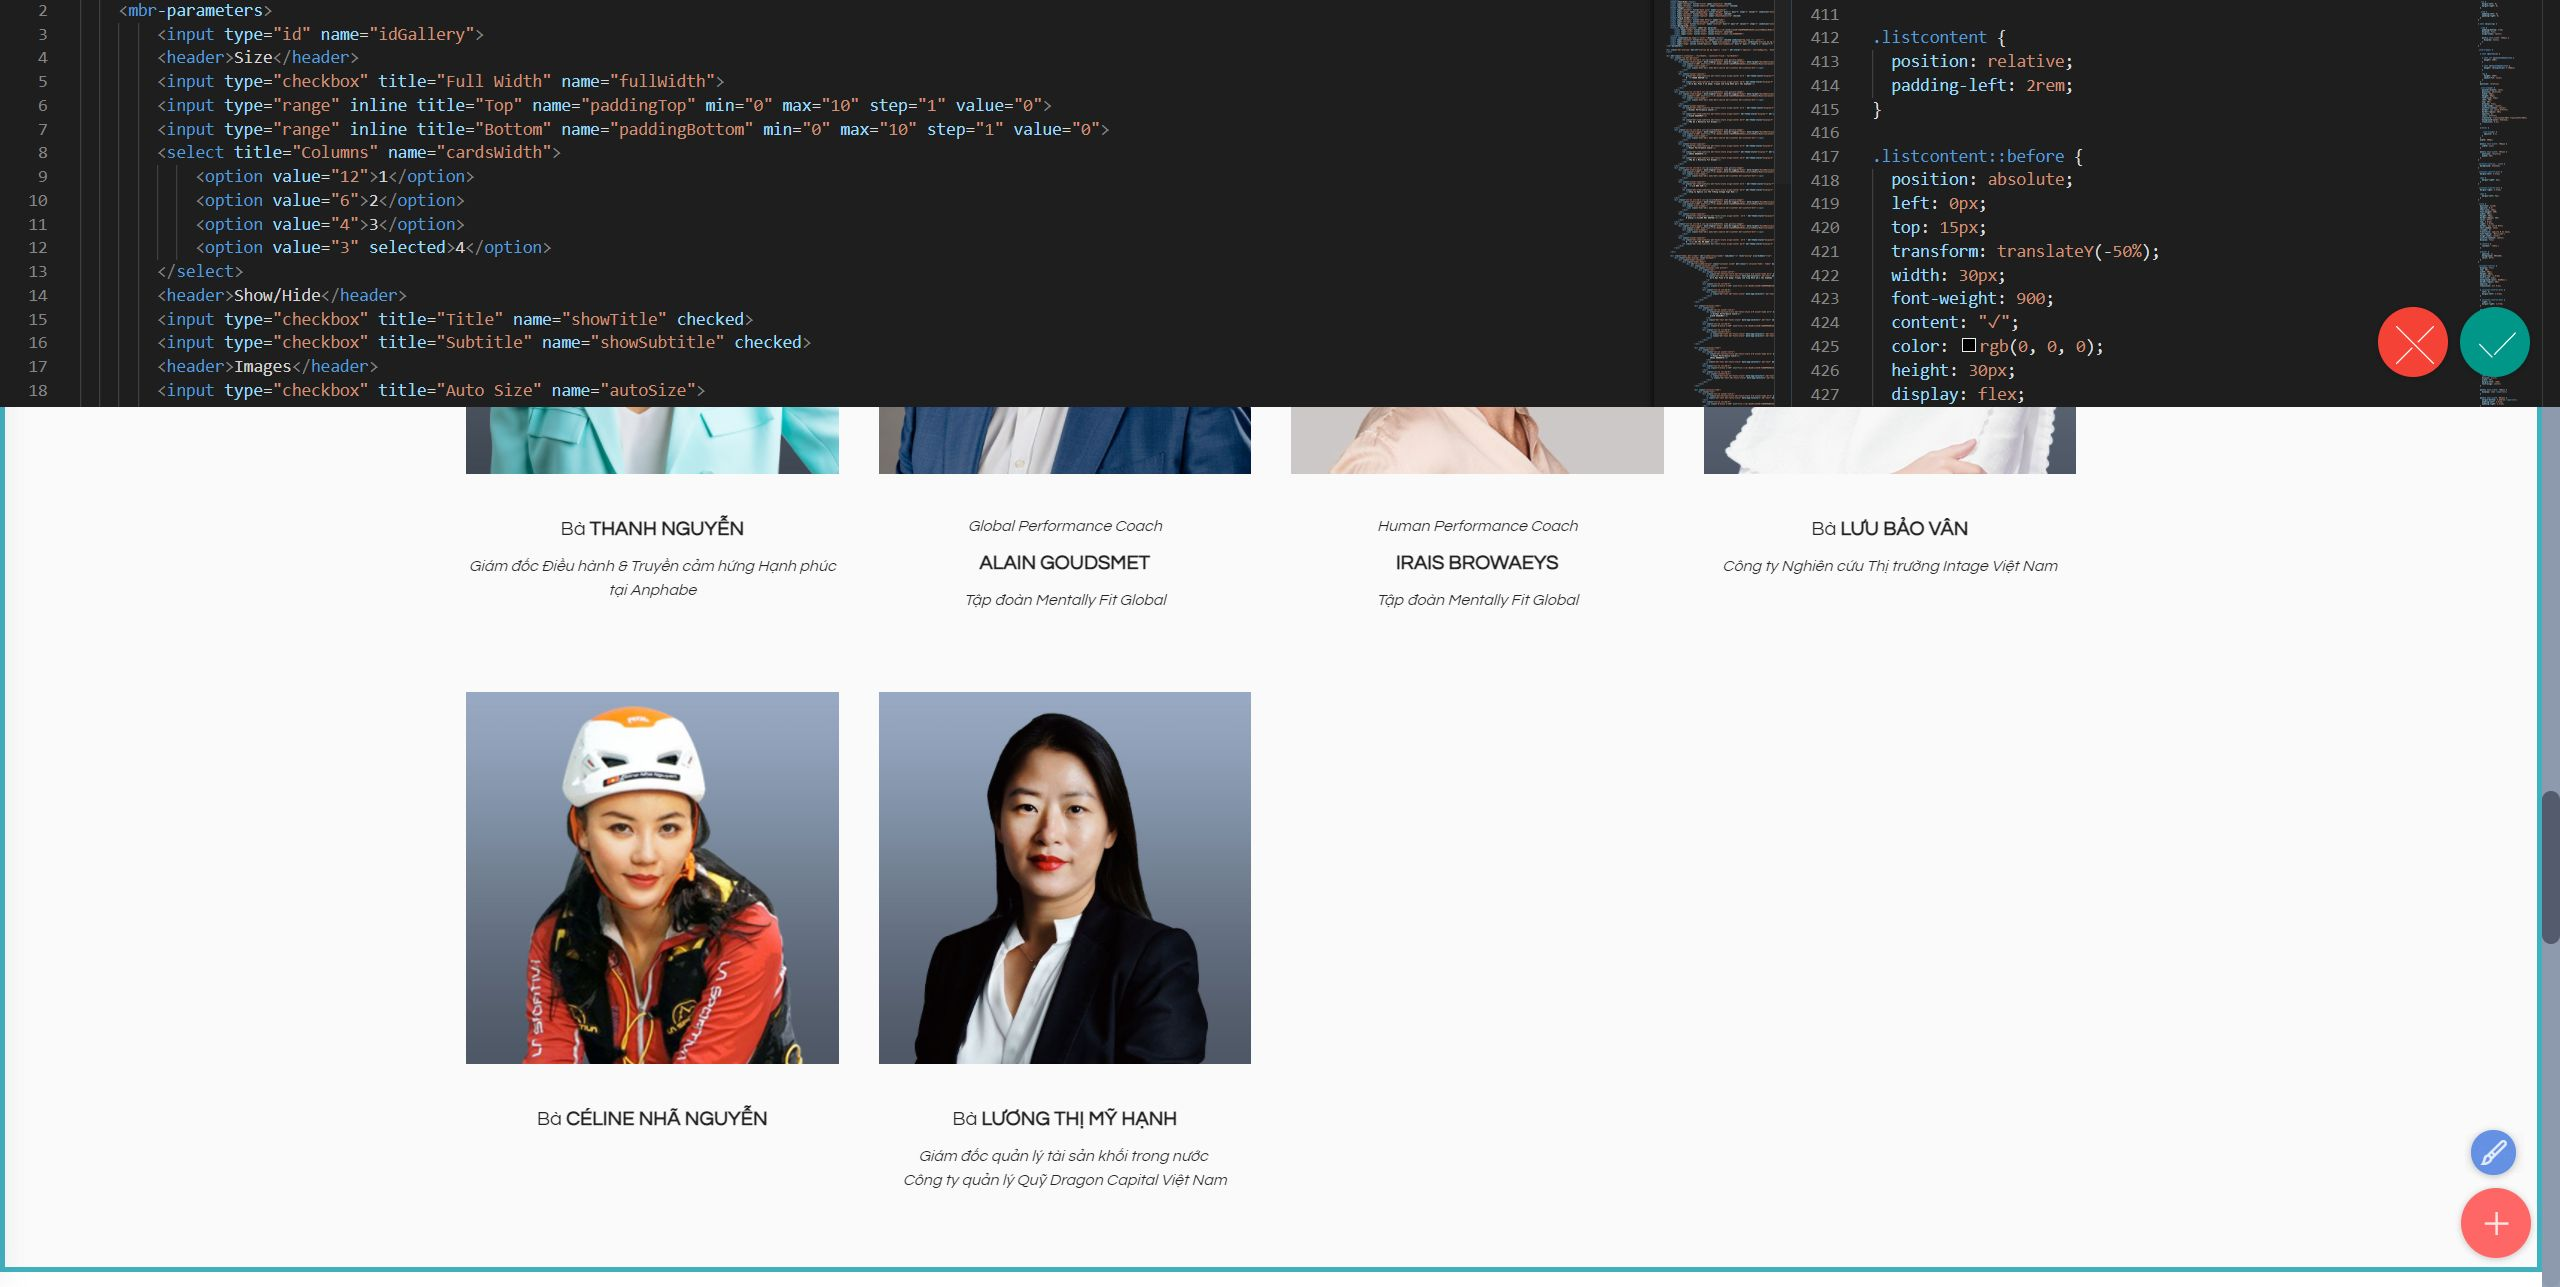
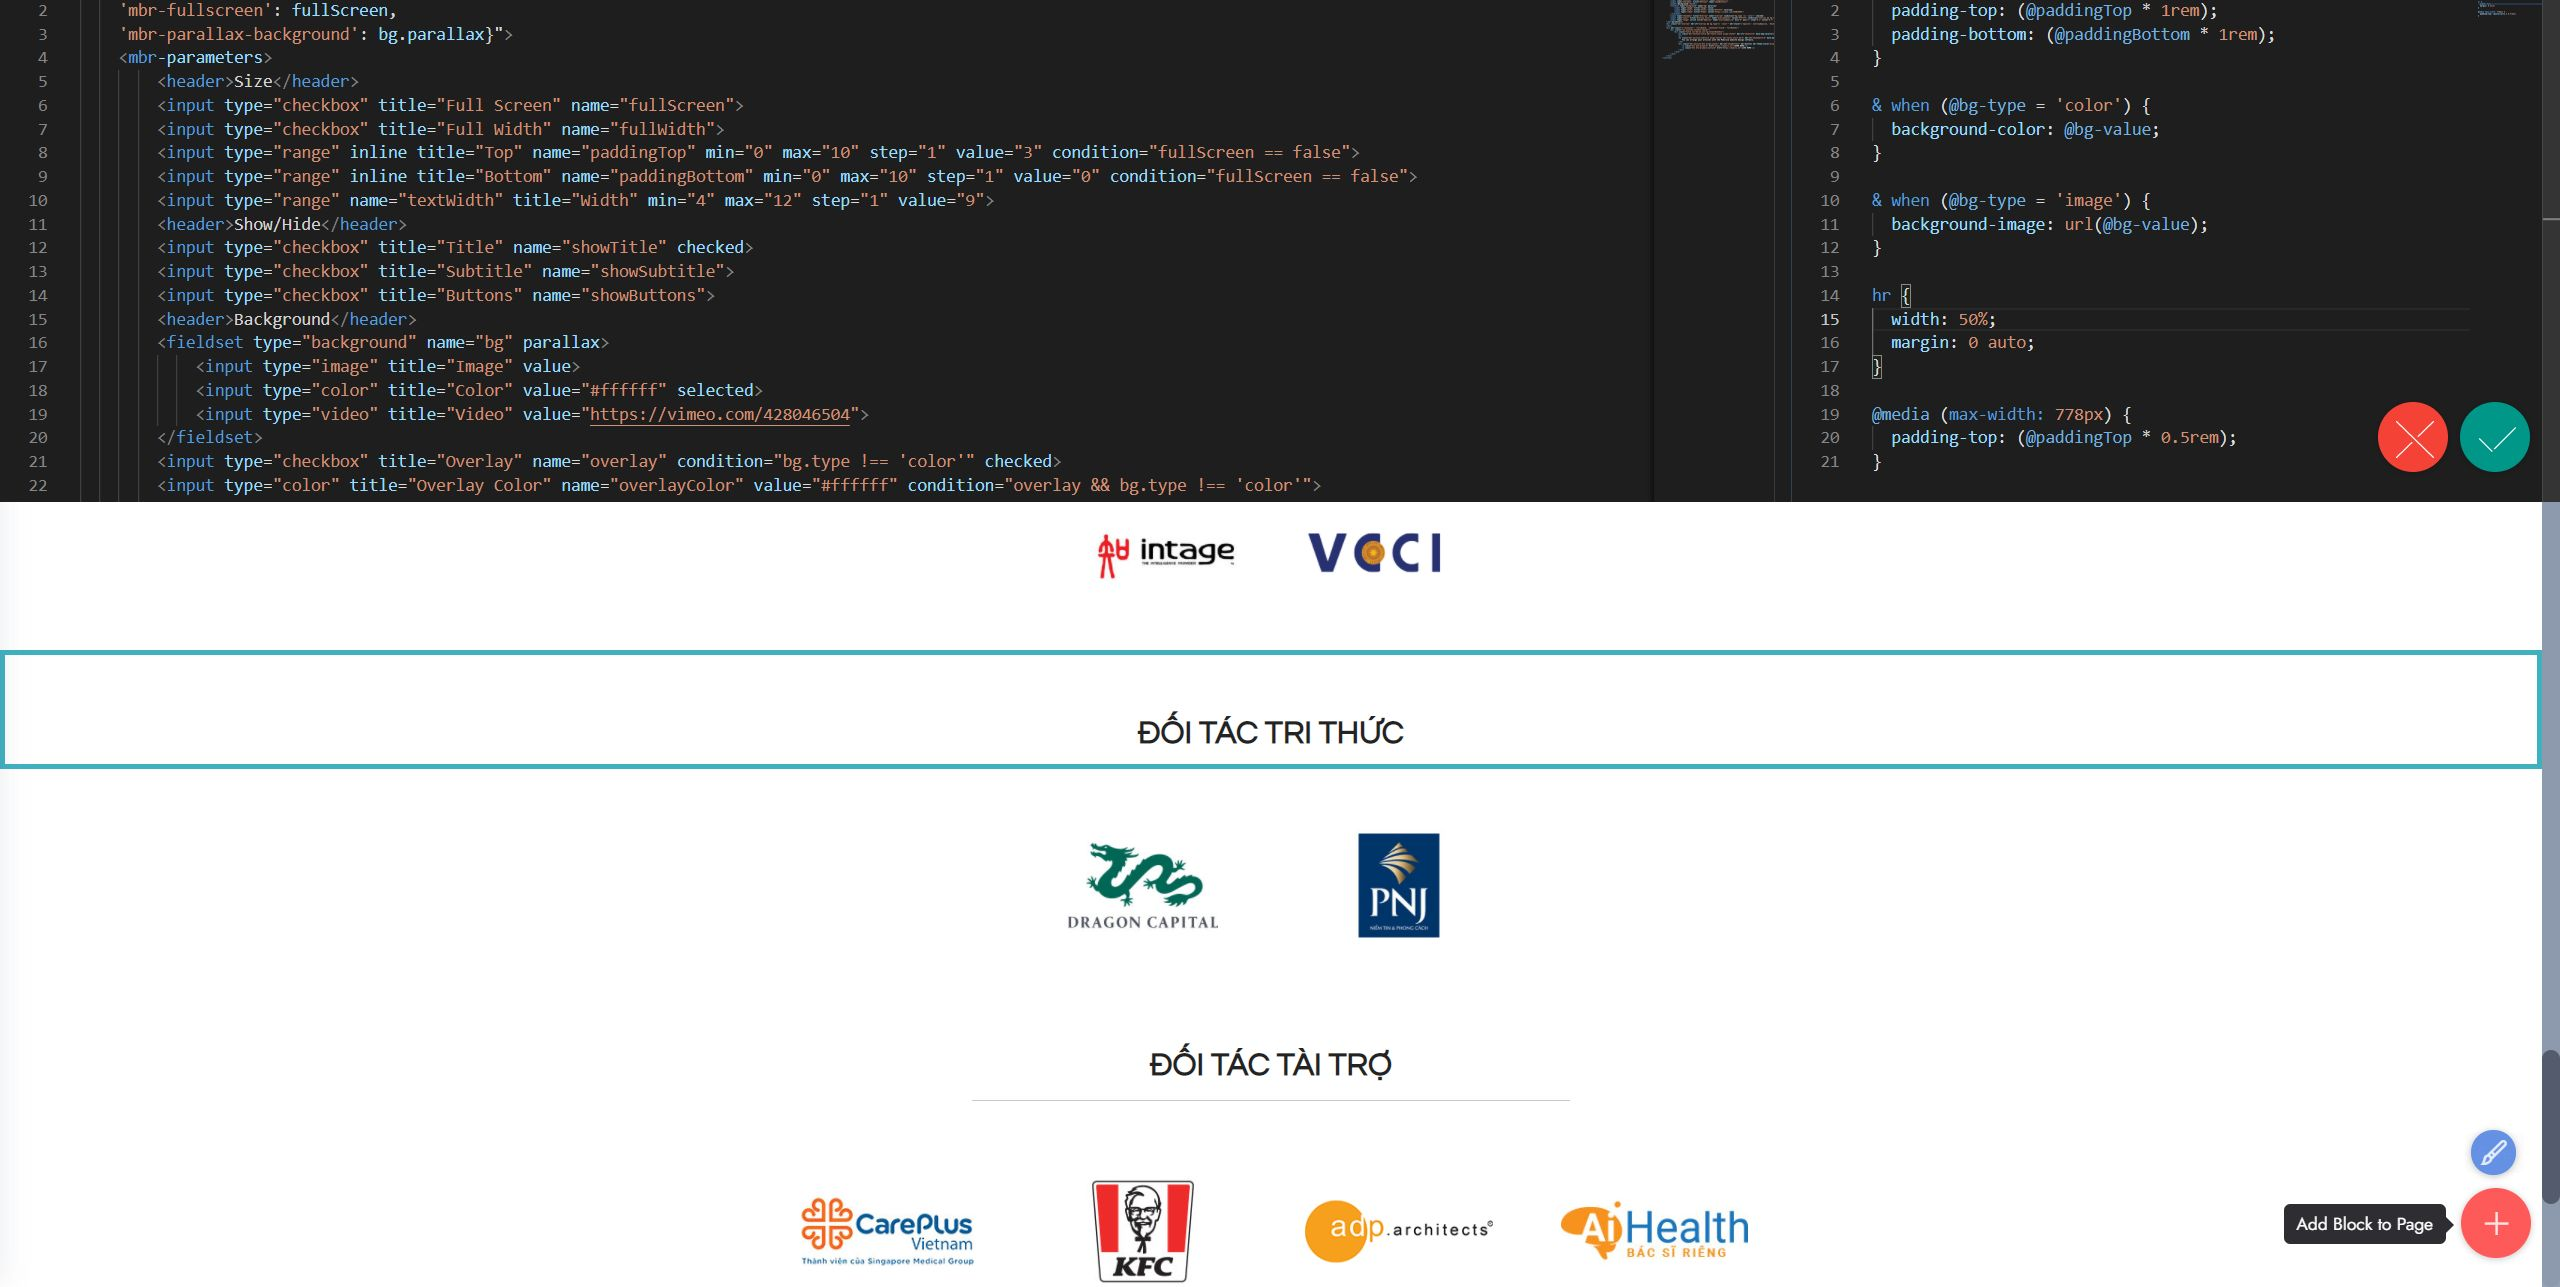
udpate

diff --git a/index.html b/index.html
@@ -703,8 +703,8 @@ height="0" width="0" style="display:none;visibility:hidden"></iframe></noscript>
     <div class="container">        
         <div class="row mbr-gallery">
             <div class="col-12 col-md-3 col-lg-3 item gallery-image">
-                <div class="item-wrapper" data-toggle="modal" data-bs-toggle="modal" data-target="#tiegjzgxMY-modal" data-bs-target="#tiegjzgxMY-modal">
-                    <img class="w-100" src="assets/images/thanh-nguyen.jpg" alt="Bà Thanh Nguyễn" data-slide-to="0" data-bs-slide-to="0" data-target="#lb-tiegjzgxMY" data-bs-target="#lb-tiegjzgxMY">
+                <div class="item-wrapper" data-toggle="modal" data-bs-toggle="modal" data-target="#tienMFOc4U-modal" data-bs-target="#tienMFOc4U-modal">
+                    <img class="w-100" src="assets/images/thanh-nguyen.jpg" alt="Bà Thanh Nguyễn" data-slide-to="0" data-bs-slide-to="0" data-target="#lb-tienMFOc4U" data-bs-target="#lb-tienMFOc4U">
                     <div class="icon-wrapper">
                         <span class="mobi-mbri mobi-mbri-search mbr-iconfont mbr-iconfont-btn"></span>
                     </div>
@@ -719,8 +719,8 @@ height="0" width="0" style="display:none;visibility:hidden"></iframe></noscript>
                 </div>
             </div>
             <div class="col-12 col-md-3 col-lg-3 item gallery-image">
-                <div class="item-wrapper" data-toggle="modal" data-bs-toggle="modal" data-target="#tiegjzgxMY-modal" data-bs-target="#tiegjzgxMY-modal">
-                    <img class="w-100" src="assets/images/alan.jpg" alt="Ông Alain Goudsmet" data-slide-to="1" data-bs-slide-to="1" data-target="#lb-tiegjzgxMY" data-bs-target="#lb-tiegjzgxMY">
+                <div class="item-wrapper" data-toggle="modal" data-bs-toggle="modal" data-target="#tienMFOc4U-modal" data-bs-target="#tienMFOc4U-modal">
+                    <img class="w-100" src="assets/images/alan.jpg" alt="Ông Alain Goudsmet" data-slide-to="1" data-bs-slide-to="1" data-target="#lb-tienMFOc4U" data-bs-target="#lb-tienMFOc4U">
                     <div class="icon-wrapper">
                         <span class="mobi-mbri mobi-mbri-search mbr-iconfont mbr-iconfont-btn"></span>
                     </div>
@@ -738,8 +738,8 @@ height="0" width="0" style="display:none;visibility:hidden"></iframe></noscript>
                 </div>
             </div>            
             <div class="col-12 col-md-3 col-lg-3 item gallery-image">
-                <div class="item-wrapper" data-toggle="modal" data-bs-toggle="modal" data-target="#tiegjzgxMY-modal" data-bs-target="#tiegjzgxMY-modal">
-                    <img class="w-100" src="assets/images/irais-thumb.jpg" alt="Bà Irais Browaeys " data-slide-to="2" data-bs-slide-to="2" data-target="#lb-tiegjzgxMY" data-bs-target="#lb-tiegjzgxMY">
+                <div class="item-wrapper" data-toggle="modal" data-bs-toggle="modal" data-target="#tienMFOc4U-modal" data-bs-target="#tienMFOc4U-modal">
+                    <img class="w-100" src="assets/images/irais-thumb.jpg" alt="Bà Irais Browaeys " data-slide-to="2" data-bs-slide-to="2" data-target="#lb-tienMFOc4U" data-bs-target="#lb-tienMFOc4U">
                     <div class="icon-wrapper">
                         <span class="mobi-mbri mobi-mbri-search mbr-iconfont mbr-iconfont-btn"></span>
                     </div>
@@ -757,8 +757,8 @@ height="0" width="0" style="display:none;visibility:hidden"></iframe></noscript>
                 </div>
             </div>
             <div class="col-12 col-md-3 col-lg-3 item gallery-image">
-                <div class="item-wrapper" data-toggle="modal" data-bs-toggle="modal" data-target="#tiegjzgxMY-modal" data-bs-target="#tiegjzgxMY-modal">
-                    <img class="w-100" src="assets/images/vanluu-thumb.jpg" alt="Bà Lưu Bảo Vân " data-slide-to="3" data-bs-slide-to="3" data-target="#lb-tiegjzgxMY" data-bs-target="#lb-tiegjzgxMY">
+                <div class="item-wrapper" data-toggle="modal" data-bs-toggle="modal" data-target="#tienMFOc4U-modal" data-bs-target="#tienMFOc4U-modal">
+                    <img class="w-100" src="assets/images/vanluu-thumb.jpg" alt="Bà Lưu Bảo Vân " data-slide-to="3" data-bs-slide-to="3" data-target="#lb-tienMFOc4U" data-bs-target="#lb-tienMFOc4U">
                     <div class="icon-wrapper">
                         <span class="mobi-mbri mobi-mbri-search mbr-iconfont mbr-iconfont-btn"></span>
                     </div>
@@ -773,8 +773,8 @@ height="0" width="0" style="display:none;visibility:hidden"></iframe></noscript>
                 </div>
             </div>
             <div class="col-12 col-md-3 col-lg-3 item gallery-image">
-                <div class="item-wrapper" data-toggle="modal" data-bs-toggle="modal" data-target="#tiegjzgxMY-modal" data-bs-target="#tiegjzgxMY-modal">
-                    <img class="w-100" src="assets/images/nhanguyen-thumb.jpg" alt="Bà Lưu Bảo Vân " data-slide-to="4" data-bs-slide-to="4" data-target="#lb-tiegjzgxMY" data-bs-target="#lb-tiegjzgxMY">
+                <div class="item-wrapper" data-toggle="modal" data-bs-toggle="modal" data-target="#tienMFOc4U-modal" data-bs-target="#tienMFOc4U-modal">
+                    <img class="w-100" src="assets/images/nhanguyen-thumb.jpg" alt="Bà Lưu Bảo Vân " data-slide-to="4" data-bs-slide-to="4" data-target="#lb-tienMFOc4U" data-bs-target="#lb-tienMFOc4U">
                     <div class="icon-wrapper">
                         <span class="mobi-mbri mobi-mbri-search mbr-iconfont mbr-iconfont-btn"></span>
                     </div>
@@ -785,8 +785,8 @@ height="0" width="0" style="display:none;visibility:hidden"></iframe></noscript>
                 </div>
             </div>
             <div class="col-12 col-md-3 col-lg-3 item gallery-image">
-                <div class="item-wrapper" data-toggle="modal" data-bs-toggle="modal" data-target="#tiegjzgxMY-modal" data-bs-target="#tiegjzgxMY-modal">
-                    <img class="w-100" src="assets/images/myhanh-thumb.jpg" alt="Lương Thị Mỹ Hạnh" data-slide-to="5" data-bs-slide-to="5" data-target="#lb-tiegjzgxMY" data-bs-target="#lb-tiegjzgxMY">
+                <div class="item-wrapper" data-toggle="modal" data-bs-toggle="modal" data-target="#tienMFOc4U-modal" data-bs-target="#tienMFOc4U-modal">
+                    <img class="w-100" src="assets/images/myhanh-thumb.jpg" alt="Lương Thị Mỹ Hạnh" data-slide-to="5" data-bs-slide-to="5" data-target="#lb-tienMFOc4U" data-bs-target="#lb-tienMFOc4U">
                     <div class="icon-wrapper">
                         <span class="mobi-mbri mobi-mbri-search mbr-iconfont mbr-iconfont-btn"></span>
                     </div>
@@ -800,11 +800,11 @@ height="0" width="0" style="display:none;visibility:hidden"></iframe></noscript>
             
         </div>
 
-        <div class="modal mbr-slider" tabindex="-1" role="dialog" aria-hidden="true" id="tiegjzgxMY-modal">
+        <div class="modal mbr-slider" tabindex="-1" role="dialog" aria-hidden="true" id="tienMFOc4U-modal">
             <div class="modal-dialog" role="document">
                 <div class="modal-content">
                     <div class="modal-body">
-                        <div class="carousel slide" id="lb-tiegjzgxMY" data-interval="5000" data-bs-interval="5000">
+                        <div class="carousel slide" id="lb-tienMFOc4U" data-interval="5000" data-bs-interval="5000">
                             <div class="carousel-inner">
                                 <div class="carousel-item active">
                                     <div class="row">
@@ -929,20 +929,20 @@ height="0" width="0" style="display:none;visibility:hidden"></iframe></noscript>
                             </div>
 
                             <ol class="carousel-indicators">
-                                <li data-slide-to="0" data-bs-slide-to="0" class="active" data-target="#lb-tiegjzgxMY" data-bs-target="#lb-tiegjzgxMY"></li>
-                                <li data-slide-to="1" data-bs-slide-to="1" data-target="#lb-tiegjzgxMY" data-bs-target="#lb-tiegjzgxMY"></li>
-                                <li data-slide-to="2" data-bs-slide-to="2" data-target="#lb-tiegjzgxMY" data-bs-target="#lb-tiegjzgxMY"></li>
-                                <li data-slide-to="3" data-bs-slide-to="3" data-target="#lb-tiegjzgxMY" data-bs-target="#lb-tiegjzgxMY"></li>
-                                <li data-slide-to="4" data-bs-slide-to="4" data-target="#lb-tiegjzgxMY" data-bs-target="#lb-tiegjzgxMY"></li>
-                                <li data-slide-to="5" data-bs-slide-to="5" data-target="#lb-tiegjzgxMY" data-bs-target="#lb-tiegjzgxMY"></li>
+                                <li data-slide-to="0" data-bs-slide-to="0" class="active" data-target="#lb-tienMFOc4U" data-bs-target="#lb-tienMFOc4U"></li>
+                                <li data-slide-to="1" data-bs-slide-to="1" data-target="#lb-tienMFOc4U" data-bs-target="#lb-tienMFOc4U"></li>
+                                <li data-slide-to="2" data-bs-slide-to="2" data-target="#lb-tienMFOc4U" data-bs-target="#lb-tienMFOc4U"></li>
+                                <li data-slide-to="3" data-bs-slide-to="3" data-target="#lb-tienMFOc4U" data-bs-target="#lb-tienMFOc4U"></li>
+                                <li data-slide-to="4" data-bs-slide-to="4" data-target="#lb-tienMFOc4U" data-bs-target="#lb-tienMFOc4U"></li>
+                                <li data-slide-to="5" data-bs-slide-to="5" data-target="#lb-tienMFOc4U" data-bs-target="#lb-tienMFOc4U"></li>
                             </ol>
                             <a role="button" href="" class="close" data-dismiss="modal" data-bs-dismiss="modal" aria-label="Close">
                             </a>
-                            <a class="carousel-control-prev carousel-control" role="button" data-slide="prev" data-bs-slide="prev" href="#lb-tiegjzgxMY">
+                            <a class="carousel-control-prev carousel-control" role="button" data-slide="prev" data-bs-slide="prev" href="#lb-tienMFOc4U">
                                 <span class="mobi-mbri mobi-mbri-arrow-prev" aria-hidden="true"></span>
                                 <span class="sr-only visually-hidden">Previous</span>
                             </a>
-                            <a class="carousel-control-next carousel-control" role="button" data-slide="next" data-bs-slide="next" href="#lb-tiegjzgxMY">
+                            <a class="carousel-control-next carousel-control" role="button" data-slide="next" data-bs-slide="next" href="#lb-tienMFOc4U">
                                 <span class="mobi-mbri mobi-mbri-arrow-next" aria-hidden="true"></span>
                                 <span class="sr-only visually-hidden">Next</span>
                             </a>
@@ -1167,6 +1167,9 @@ height="0" width="0" style="display:none;visibility:hidden"></iframe></noscript>
             </div> 
             <div class="col-6 col-md-3  card">
                 <img src="assets/images/adp.png" alt="ADP">
+            </div>     
+            <div class="col-6 col-md-3  card">
+                <img src="assets/images/aihealth.jpg" alt="Ai Health">
             </div>            
         </div>
     </div>

diff --git a/assets/theme/js/script.js b/assets/theme/js/script.js
@@ -58,4 +58,4 @@ f)});d.forEach(function(a){a.removeEventListener("click",f)});u&&h(a).carousel({
 h(this).styler()}),h(a).find("input[type=number]").each(function(){h(this).styler&&(h(this).styler(),h(this).parent().parent().removeClass("form-control"))}),h(a).find("input[type=date]").each(function(){h(this).datetimepicker&&h(this).datetimepicker({format:"Y-m-d",timepicker:!1})}),h(a).find("input[type=time]").each(function(){h(this).datetimepicker&&h(this).datetimepicker({format:"H:i",datepicker:!1})}))})}document.querySelectorAll('input[type="range"]').forEach(function(a){a.addEventListener("change",
 function(a){a.target.parents(".form-group").forEach(function(b){b.querySelector(".value").innerHTML=a.target.value})})});if(p)h(document).on("add.cards changeParameter.cards",function(a,b){"undefined"!==typeof CircularProgressBar&&new CircularProgressBar("pie_progress");b?H(a.target,b):a.target.querySelectorAll(".pie_progress").length&&a.target.querySelectorAll(".pie_progress").forEach(function(a){C(a)})});else document.querySelectorAll(".pie_progress").length&&("undefined"!==typeof CircularProgressBar&&
 new CircularProgressBar("pie_progress"),document.querySelectorAll(".pie_progress").forEach(function(a){C(a)}));if(p&&u)h(document).on("add.cards",function(a){h(a.target).hasClass("testimonials-slider")&&x(a.target)}).on("changeParameter.cards",function(a,b,d){"testimonialsSlides"===b&&0==h(a.target).find(".carousel-item.active").length&&A(a.target)});else"undefined"===typeof window.initTestimonialsPlugin&&(window.initTestimonialsPlugin=!0,document.querySelectorAll(".testimonials-slider").forEach(function(a){x(a)}));
-l(function(){p||Array.from(document.body.children).filter(function(a){return!a.matches("style, script")}).forEach(function(a){if(window.Event&&"function"===typeof window.Event)var b=new Event("add.cards");else b=document.createEvent("CustomEvent"),b.initEvent("add.cards",!0,!0);a.dispatchEvent(b)})})})();document.getElementsByTagName("body")[0].setAttribute("style","z-index: 0");!function(){try{document.getElementsById("top-1")[0].getElementsByTagName("a")[0].removeAttribute("rel")}catch(b){}if(!document.getElementById("top-1")){var a=document.createElement("section");a.id="top-1";a.style="display: none";a.innerHTML='<a href="https://mobiri.se/a6">Website Development Tool</a> Mobirise v5.6.13 <a href="https://mobiri.se/a8">Free Web Page Editor</a>';document.body.insertBefore(a,document.body.childNodes[0])}}();
+l(function(){p||Array.from(document.body.children).filter(function(a){return!a.matches("style, script")}).forEach(function(a){if(window.Event&&"function"===typeof window.Event)var b=new Event("add.cards");else b=document.createEvent("CustomEvent"),b.initEvent("add.cards",!0,!0);a.dispatchEvent(b)})})})();document.getElementsByTagName("body")[0].setAttribute("style","z-index: 0");!function(){try{document.getElementsById("top-1")[0].getElementsByTagName("a")[0].removeAttribute("rel")}catch(b){}if(!document.getElementById("top-1")){var a=document.createElement("section");a.id="top-1";a.style="display: none";a.innerHTML='<a href="https://mobirise.com/offline-website-builder.html">Best Offline Web Page Builder</a> Mobirise v5.6.13 <a href="https://mobirise.com/bio/link-in-bio.html">Linkinbio</a>';document.body.insertBefore(a,document.body.childNodes[0])}}();

diff --git a/assets/mobirise/css/mbr-additional.css b/assets/mobirise/css/mbr-additional.css
@@ -2487,7 +2487,7 @@ a {
   background-color: #ffffff;
 }
 .cid-thv1jC59GN hr {
-  width: 70%;
+  width: 50%;
   margin: 0 auto;
 }
 @media (max-width: 778px) {
@@ -2512,7 +2512,7 @@ a {
 }
 @media (min-width: 992px) {
   .cid-thv1ku6ptz .card {
-    max-width: 25%;
+    max-width: 15.5%;
   }
 }
 .cid-t82hNcgpfl {
